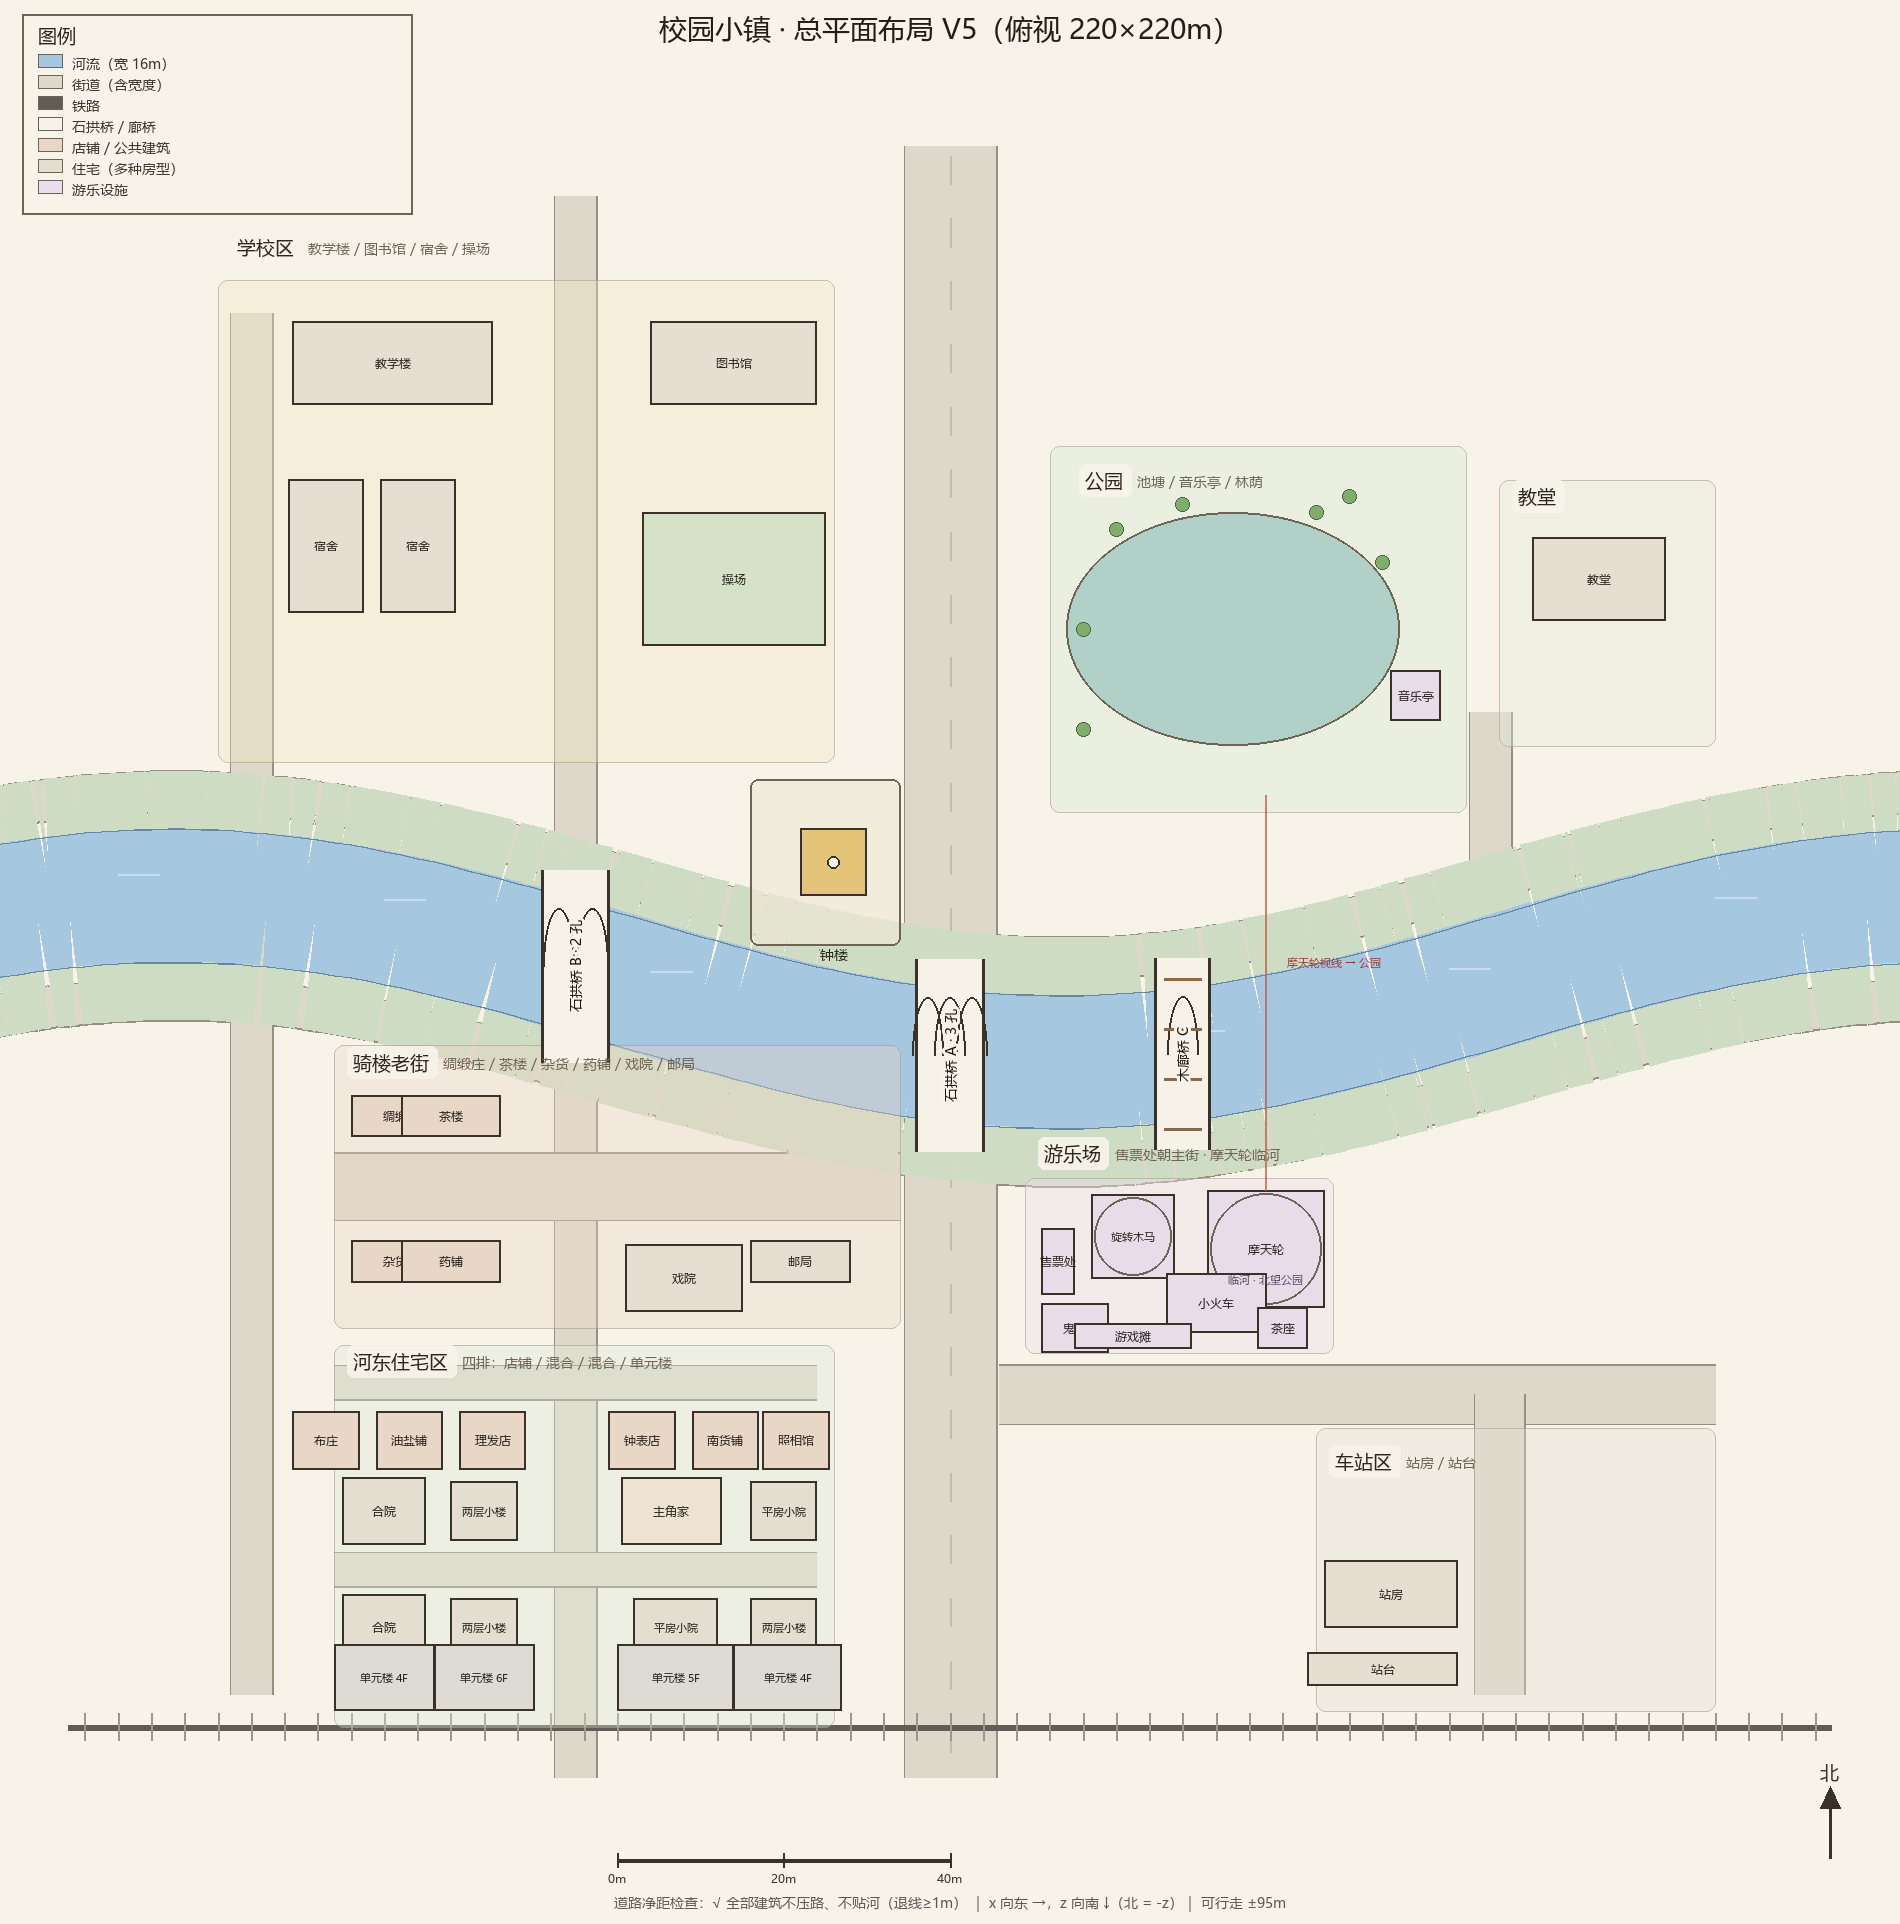
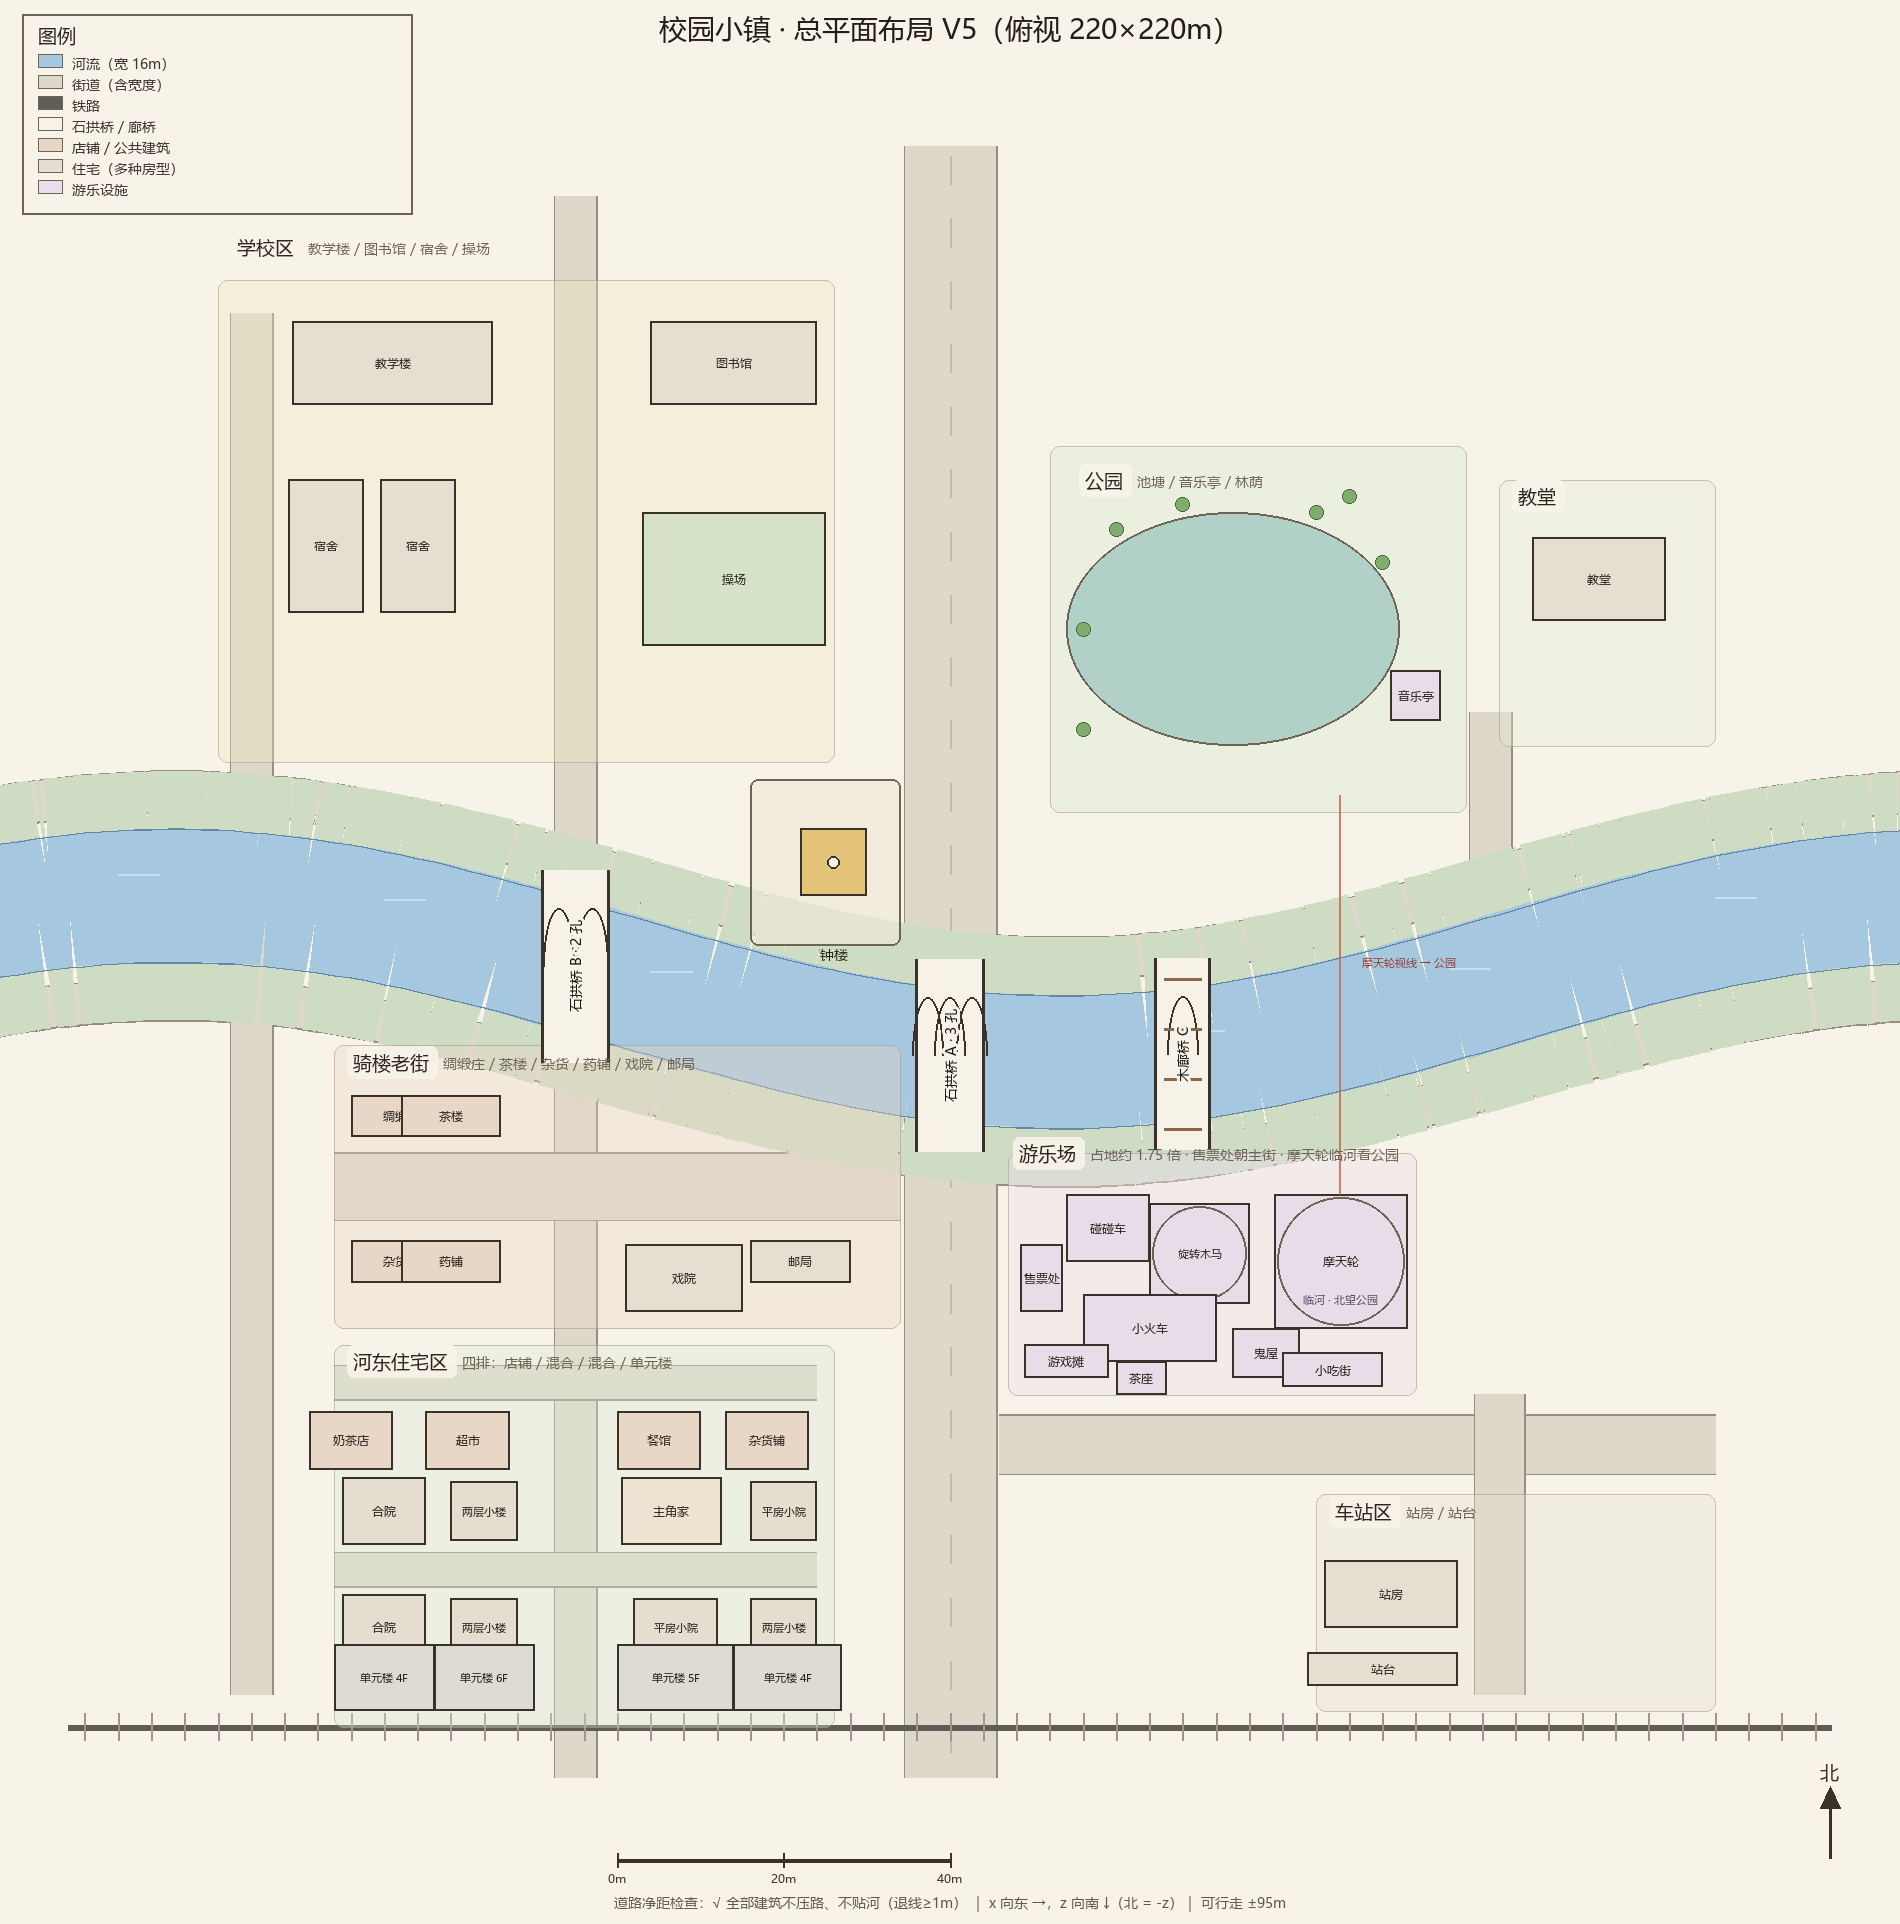
docs(设计): 店铺改奶茶店/超市/餐馆/杂货铺；游乐场扩至约 1.75 倍、设施铺满
- 河东住宅区第 1 排 4 间店面改为：奶茶店 / 超市 / 餐馆 / 杂货铺（10×7）
- 游乐场从 37×21m 扩到 49×29m（约 1.75 倍）：新增碰碰车、小吃街，
  摩天轮加到 16m 直径并西移到 (47,36)，仍临河北望公园；
  售票处保持靠主街一侧；设施占地提升到约 75%（原约 45%）
- 车站街南移 z=58、车站区 z 64~90，为游乐场腾出进深
- 净距校验（建筑↔道路 ≥1m、建筑↔河道 ≥16m）重跑：√ 全部通过

Changed region(s): [[0.5279, 0.5925, 0.9005, 0.8108], [0.3105, 0.7173, 0.4347, 0.7796], [0.1553, 0.7173, 0.2795, 0.7796]]

diff --git a/docs/18-小镇总平面布局.md b/docs/18-小镇总平面布局.md
@@ -15,7 +15,7 @@
 | 老街商街 | z=27，x -74~-6 | 8m | 骑楼老街的主街 |
 | 住宅北街 | z=50.5，x -74~-16 | 4m | 第 1 排店铺门脸 |
 | 住宅中街 | z=73，x -74~-16 | 4m | 主角家门前 |
-| 车站街 | z=52，x 6~92 | 7m | 主街 → 车站 |
+| 车站街 | z=58，x 6~92 | 7m | 主街 → 车站（给游乐场让出约 8m 进深） |
 | 车站路 | x=66，z 52~88 | 6m | 车站区南北向 |
 | 公园联络路 | x=65，z -30~-10 | 5m | 公园与教堂之间 |
 | 南北岸河滨路 | 沿河每侧 ±12.5m | 5m | 观景 + 连通两岸 |
@@ -45,7 +45,7 @@
 ### 河东住宅区（四排，x -74~-14，z 46~92）
 | 排 | 建筑 | 用途 |
 | --- | --- | --- |
-| 第 1 排（临河） | 6 间店面（8×7，2 层） | **布庄 / 油盐铺 / 理发店 / 钟表店 / 南货铺 / 照相馆** |
+| 第 1 排（临河） | 4 间店面（10×7，2 层） | **奶茶店 / 超市 / 餐馆 / 杂货铺** |
 | 第 2 排 | 合院（10×8）、两层小楼（8×7）、**主角家（12×8，居中）**、平房小院（8×7） | 混合住宅 |
 | 第 3 排 | 合院、两层小楼、平房小院、两层小楼 | 混合住宅 |
 | 第 4 排（沿铁路） | 单元楼 ×4 | **4F / 6F / 5F / 4F，高低错落** |
@@ -53,19 +53,23 @@
 **主角家**在中央街东侧、第 2 排正中（x=-33.5, z=66），家门朝西开向中央街 → 出门往北沿中央街直行，
 过石拱桥 B 就是学校，全程一条直路。
 
-### 车站区（东南，x 44~92，z 56~90）
+### 车站区（东南，x 44~92，z 64~90）
 站房（16×8）｜站台（18×4）｜货场；铁路 z=92
 
-### 游乐场（原纱厂+码头位置，x 9~46，z 26~47）——本轮替换
+### 游乐场（原纱厂+码头位置，x 7~56，z 23~52）——本轮替换，占地 ×1.75
 | 设施 | 位置 | 说明 |
 | --- | --- | --- |
-| **售票处（正门）** | (13,36) 4×8 | **开在靠主街（中间马路）的西侧**，进门直对主街 |
-| **摩天轮** | (38,34.5) 直径 14m | 临河北缘，**北望河对岸公园**（图上画了红色视线） |
-| 旋转木马 | (22,33) 10×10 | 圆形转盘 |
-| 小火车 | (32,41) 12×7 | 环形小火车 |
-| 鬼屋 | (15,44) 8×6 | |
-| 茶座 | (40,44) 6×5 | |
-| 游戏摊 | (22,45) 14×3 | 套圈/射击一类的摊位 |
+| **售票处（正门）** | (11,38) 5×8 | **开在靠主街（中间马路）的西侧**，进门直对主街 |
+| **摩天轮** | (47,36) 直径 16m | 临河北缘，**北望河对岸公园**（图上画了红色视线） |
+| 旋转木马 | (30,35) 12×12 | 圆形转盘 |
+| 碰碰车 | (19,32) 10×8 | |
+| 小火车 | (24,44) 16×8 | 环形小火车 |
+| 鬼屋 | (38,47) 8×6 | |
+| 茶座 | (23,50) 6×4 | |
+| 游戏摊 | (14,48) 10×4 | 套圈/射击一类的摊位 |
+| 小吃街 | (46,49) 12×4 | 4 个摊位一排 |
+
+设施占游乐场约 **75%** 占地（原约 45%），观感更饱满；净距校验仍全部通过。
 
 ## 三、与前几版的变化
 
